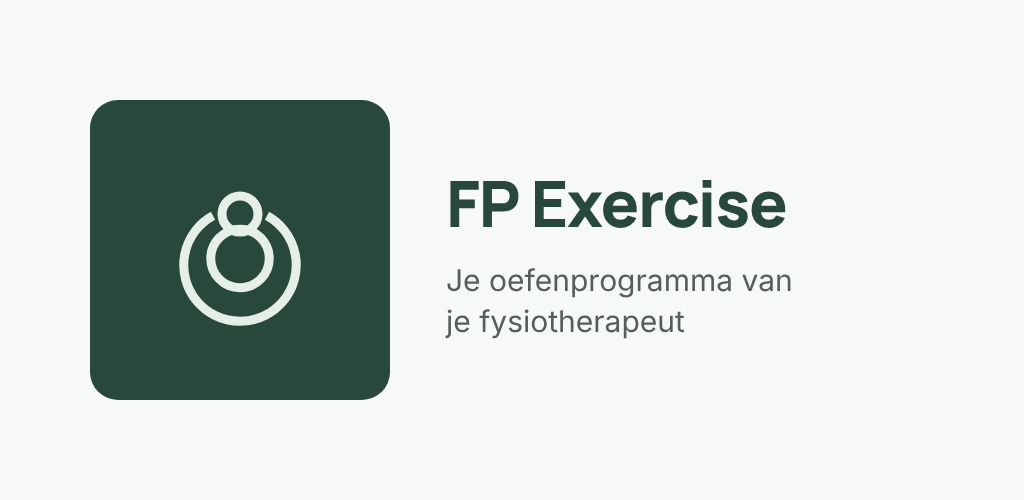
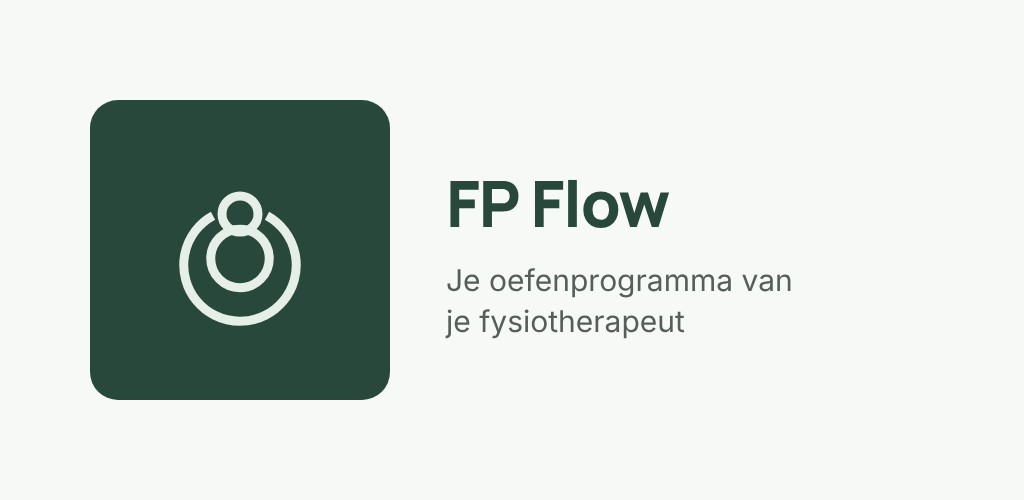
Rename the app to FP Flow
Visible name, page titles, manifest, store graphics, TOTP issuer and download
filenames. Technical identifiers (package names, domain, Android package id)
stay unchanged.

Claude-Session: https://claude.ai/code/session_01LX8STJNNDwUxbGDdeQr5p6

Changed region(s): [[0.5312, 0.36, 0.7812, 0.48]]

diff --git a/web/src/pages/marketing/MarketingPages.tsx b/web/src/pages/marketing/MarketingPages.tsx
@@ -31,7 +31,7 @@ export function FeaturesPage() {
   ];
   return (
     <>
-      <Hero eyebrow={t('Functies', 'Features')} title={t('Van voorschrijven tot bijsturen, in één rustige omgeving', 'From prescribing to adjusting, in one calm environment')} intro={t('FP Exercise ondersteunt de fysiotherapeut — het systeem stelt geen diagnoses en schrijft niets automatisch voor. Jij houdt de klinische regie.', 'FP Exercise supports the physiotherapist — it does not diagnose or prescribe automatically. You stay in clinical control.')} />
+      <Hero eyebrow={t('Functies', 'Features')} title={t('Van voorschrijven tot bijsturen, in één rustige omgeving', 'From prescribing to adjusting, in one calm environment')} intro={t('FP Flow ondersteunt de fysiotherapeut — het systeem stelt geen diagnoses en schrijft niets automatisch voor. Jij houdt de klinische regie.', 'FP Flow supports the physiotherapist — it does not diagnose or prescribe automatically. You stay in clinical control.')} />
       <section className="mx-auto max-w-6xl space-y-6 px-5 py-20">
         {blocks.map(([Icon, title, text, points]) => (
           <div key={title} className="grid gap-8 rounded-2xl border border-line p-8 shadow-card lg:grid-cols-2">
@@ -56,7 +56,7 @@ export function FeaturesPage() {
 
 export function HowItWorksPage() {
   const { t } = useI18n();
-  useDocumentMeta(t('Hoe het werkt', 'How it works'), t('Zo werkt FP Exercise voor fysiotherapeuten en patiënten.', 'How FP Exercise works for physiotherapists and patients.'));
+  useDocumentMeta(t('Hoe het werkt', 'How it works'), t('Zo werkt FP Flow voor fysiotherapeuten en patiënten.', 'How FP Flow works for physiotherapists and patients.'));
   const steps = (list: [typeof Search, string, string][]) => (
     <ol className="space-y-4">
       {list.map(([Icon, title, text], i) => (
@@ -95,7 +95,7 @@ export function HowItWorksPage() {
       </section>
       <section className="mx-auto max-w-6xl px-5 pb-20">
         <Notice tone="info" icon={<FileWarning className="h-4 w-4" />} title={t('Beoogd gebruik', 'Intended use')}>
-          {t('FP Exercise is een hulpmiddel voor het delen en registreren van door een zorgprofessional voorgeschreven oefeningen. De software stelt geen diagnoses, geeft geen geautomatiseerd behandeladvies en vervangt niet het oordeel van de fysiotherapeut.', 'FP Exercise is a tool to share and log exercises prescribed by a healthcare professional. The software does not diagnose, does not give automated treatment advice and does not replace the physiotherapist’s judgement.')}
+          {t('FP Flow is een hulpmiddel voor het delen en registreren van door een zorgprofessional voorgeschreven oefeningen. De software stelt geen diagnoses, geeft geen geautomatiseerd behandeladvies en vervangt niet het oordeel van de fysiotherapeut.', 'FP Flow is a tool to share and log exercises prescribed by a healthcare professional. The software does not diagnose, does not give automated treatment advice and does not replace the physiotherapist’s judgement.')}
         </Notice>
       </section>
     </>
@@ -151,7 +151,7 @@ export function PricingPage() {
 
 export function ContactPage() {
   const { t, locale } = useI18n();
-  useDocumentMeta(t('Contact', 'Contact'), t('Plan een demo of stel je vraag over FP Exercise.', 'Book a demo or ask a question about FP Exercise.'));
+  useDocumentMeta(t('Contact', 'Contact'), t('Plan een demo of stel je vraag over FP Flow.', 'Book a demo or ask a question about FP Flow.'));
   const [params] = useSearchParams();
   const [startedAt] = useState(() => Date.now());
   const [f, setF] = useState({ name: '', email: '', practice: '', message: '', topic: (params.get('onderwerp') as string) || 'demo', consent: false, website: '' });
@@ -235,9 +235,9 @@ export function PrivacyPage() {
   const { t } = useI18n();
   return (
     <LegalDraft title={t('Privacyverklaring', 'Privacy notice')}>
-      <p>{t('[Concept] Deze privacyverklaring beschrijft hoe FP Exercise persoonsgegevens verwerkt.', '[Draft] This privacy notice describes how FP Exercise processes personal data.')}</p>
+      <p>{t('[Concept] Deze privacyverklaring beschrijft hoe FP Flow persoonsgegevens verwerkt.', '[Draft] This privacy notice describes how FP Flow processes personal data.')}</p>
       <h2>{t('1. Rollen', '1. Roles')}</h2>
-      <p>{t('De fysiotherapiepraktijk is verwerkingsverantwoordelijke voor patiëntgegevens. FP Exercise treedt op als verwerker op basis van een verwerkersovereenkomst. Voor de website en het contactformulier is FP Exercise zelf verwerkingsverantwoordelijke. [In te vullen: rechtspersoon, KvK, contactgegevens, FG indien van toepassing].', 'The physiotherapy practice is the controller for patient data. FP Exercise acts as processor under a data processing agreement. For the website and contact form, FP Exercise is itself the controller. [To complete: legal entity, chamber of commerce, contact details, DPO if applicable].')}</p>
+      <p>{t('De fysiotherapiepraktijk is verwerkingsverantwoordelijke voor patiëntgegevens. FP Flow treedt op als verwerker op basis van een verwerkersovereenkomst. Voor de website en het contactformulier is FP Flow zelf verwerkingsverantwoordelijke. [In te vullen: rechtspersoon, KvK, contactgegevens, FG indien van toepassing].', 'The physiotherapy practice is the controller for patient data. FP Flow acts as processor under a data processing agreement. For the website and contact form, FP Flow is itself the controller. [To complete: legal entity, chamber of commerce, contact details, DPO if applicable].')}</p>
       <h2>{t('2. Welke gegevens', '2. Which data')}</h2>
       <ul>
         <li>{t('Account: naam, e-mailadres, taalvoorkeur.', 'Account: name, email address, language preference.')}</li>
@@ -263,7 +263,7 @@ export function TermsPage() {
       <p>{t('[Concept] Structuur voor de gebruiksvoorwaarden voor praktijken.', '[Draft] Structure of the terms of use for practices.')}</p>
       <h2>{t('1. Definities', '1. Definitions')}</h2><p>[…]</p>
       <h2>{t('2. Dienst en beoogd gebruik', '2. Service and intended use')}</h2>
-      <p>{t('FP Exercise is een hulpmiddel om door een zorgprofessional voorgeschreven oefeningen te delen en te registreren. De zorgprofessional blijft verantwoordelijk voor de klinische geschiktheid van elk programma, ook wanneer een sjabloon of bibliotheekoefening wordt gebruikt.', 'FP Exercise is a tool to share and log exercises prescribed by a healthcare professional. The professional remains responsible for the clinical appropriateness of every programme, including when using a template or library exercise.')}</p>
+      <p>{t('FP Flow is een hulpmiddel om door een zorgprofessional voorgeschreven oefeningen te delen en te registreren. De zorgprofessional blijft verantwoordelijk voor de klinische geschiktheid van elk programma, ook wanneer een sjabloon of bibliotheekoefening wordt gebruikt.', 'FP Flow is a tool to share and log exercises prescribed by a healthcare professional. The professional remains responsible for the clinical appropriateness of every programme, including when using a template or library exercise.')}</p>
       <h2>{t('3. Abonnement, proefperiode en betaling', '3. Subscription, trial and payment')}</h2><p>[…]</p>
       <h2>{t('4. Verwerking van persoonsgegevens', '4. Processing of personal data')}</h2><p>{t('Zie verwerkersovereenkomst. […]', 'See data processing agreement. […]')}</p>
       <h2>{t('5. Beschikbaarheid en ondersteuning', '5. Availability and support')}</h2><p>[…]</p>
@@ -277,7 +277,7 @@ export function CookiesPage() {
   const { t } = useI18n();
   return (
     <LegalDraft title={t('Cookieverklaring', 'Cookie notice')}>
-      <p>{t('[Concept] FP Exercise gebruikt alleen functionele cookies en lokale opslag die nodig zijn om de dienst te laten werken. Er worden geen tracking- of advertentiecookies geplaatst, en daarom tonen we geen cookiebanner.', '[Draft] FP Exercise only uses functional cookies and local storage needed to run the service. No tracking or advertising cookies are set, which is why we do not show a cookie banner.')}</p>
+      <p>{t('[Concept] FP Flow gebruikt alleen functionele cookies en lokale opslag die nodig zijn om de dienst te laten werken. Er worden geen tracking- of advertentiecookies geplaatst, en daarom tonen we geen cookiebanner.', '[Draft] FP Flow only uses functional cookies and local storage needed to run the service. No tracking or advertising cookies are set, which is why we do not show a cookie banner.')}</p>
       <h2>{t('Overzicht', 'Overview')}</h2>
       <TableScroll label={t('Overzicht cookies', 'Cookie overview')}>
         <table className="w-full text-[14px]">

diff --git a/web/index.html b/web/index.html
@@ -3,8 +3,8 @@
   <head>
     <meta charset="UTF-8" />
     <meta name="viewport" content="width=device-width, initial-scale=1, viewport-fit=cover" />
-    <title>FP Exercise — Oefentherapie op maat voor fysiotherapiepraktijken</title>
-    <meta name="description" content="FP Exercise helpt fysiotherapeuten oefenprogramma's samen te stellen, voor te schrijven en te volgen. Met een eenvoudige app voor patiënten." />
+    <title>FP Flow — Oefentherapie op maat voor fysiotherapiepraktijken</title>
+    <meta name="description" content="FP Flow helpt fysiotherapeuten oefenprogramma's samen te stellen, voor te schrijven en te volgen. Met een eenvoudige app voor patiënten." />
     <meta name="theme-color" content="#29483c" />
     <link rel="icon" href="/favicon.svg" type="image/svg+xml" />
     <link rel="manifest" href="/manifest.webmanifest" />
@@ -12,14 +12,14 @@
     <meta name="apple-mobile-web-app-capable" content="yes" />
     <meta name="mobile-web-app-capable" content="yes" />
     <meta name="apple-mobile-web-app-status-bar-style" content="default" />
-    <meta name="apple-mobile-web-app-title" content="FP Exercise" />
+    <meta name="apple-mobile-web-app-title" content="FP Flow" />
     <meta property="og:type" content="website" />
-    <meta property="og:title" content="FP Exercise" />
+    <meta property="og:title" content="FP Flow" />
     <meta property="og:description" content="Oefenprogramma's voorschrijven, volgen en bijsturen." />
   </head>
   <body>
     <div id="root"></div>
-    <noscript>FP Exercise vereist JavaScript.</noscript>
+    <noscript>FP Flow vereist JavaScript.</noscript>
     <script type="module" src="/src/main.tsx"></script>
   </body>
 </html>

diff --git a/server/src/auth/service.ts b/server/src/auth/service.ts
@@ -254,11 +254,11 @@ export async function inviteUser(opts: {
   const body =
     opts.kind === 'patient'
       ? nl
-        ? `Hallo ${opts.fullName},\n\n${opts.practiceName} heeft een oefenprogramma voor je klaargezet in FP Exercise.\nActiveer je account: ${inviteUrl}\n\nDeze link is 7 dagen geldig.`
-        : `Hello ${opts.fullName},\n\n${opts.practiceName} has prepared an exercise programme for you in FP Exercise.\nActivate your account: ${inviteUrl}\n\nThis link is valid for 7 days.`
+        ? `Hallo ${opts.fullName},\n\n${opts.practiceName} heeft een oefenprogramma voor je klaargezet in FP Flow.\nActiveer je account: ${inviteUrl}\n\nDeze link is 7 dagen geldig.`
+        : `Hello ${opts.fullName},\n\n${opts.practiceName} has prepared an exercise programme for you in FP Flow.\nActivate your account: ${inviteUrl}\n\nThis link is valid for 7 days.`
       : nl
-        ? `Hallo ${opts.fullName},\n\nJe bent uitgenodigd voor ${opts.practiceName} in FP Exercise.\nActiveer je account: ${inviteUrl}`
-        : `Hello ${opts.fullName},\n\nYou have been invited to ${opts.practiceName} in FP Exercise.\nActivate your account: ${inviteUrl}`;
+        ? `Hallo ${opts.fullName},\n\nJe bent uitgenodigd voor ${opts.practiceName} in FP Flow.\nActiveer je account: ${inviteUrl}`
+        : `Hello ${opts.fullName},\n\nYou have been invited to ${opts.practiceName} in FP Flow.\nActivate your account: ${inviteUrl}`;
   await sendMail(email, nl ? `Uitnodiging van ${opts.practiceName}` : `Invitation from ${opts.practiceName}`, body);
   return { userId, inviteUrl, existing };
 }

diff --git a/web/src/components/app/Brand.tsx b/web/src/components/app/Brand.tsx
@@ -5,7 +5,7 @@ import { Languages } from 'lucide-react';
 
 export function Logo({ className, to = '/', compact }: { className?: string; to?: string; compact?: boolean }) {
   return (
-    <Link to={to} className={cn('inline-flex items-center gap-2.5 text-ink-950', className)} aria-label={compact ? 'FP Exercise' : undefined}>
+    <Link to={to} className={cn('inline-flex items-center gap-2.5 text-ink-950', className)} aria-label={compact ? 'FP Flow' : undefined}>
       <svg viewBox="0 0 32 32" className="h-8 w-8 shrink-0 text-brand-forest" aria-hidden>
         {/* monogram after the Functional Performance brand mark */}
         <g fill="none" stroke="currentColor" strokeWidth="1.8">
@@ -16,7 +16,7 @@ export function Logo({ className, to = '/', compact }: { className?: string; to?
       </svg>
       {!compact && (
         <span className="flex flex-col whitespace-nowrap leading-none">
-          <span className="font-display text-[16px] font-extrabold uppercase tracking-[0.12em] text-brand-forest">FP Exercise</span>
+          <span className="font-display text-[16px] font-extrabold uppercase tracking-[0.12em] text-brand-forest">FP Flow</span>
           <span className="mt-1 text-[9.5px] font-medium uppercase tracking-[0.24em] text-ink-500">Functional Performance</span>
         </span>
       )}

diff --git a/web/src/components/app/Mfa.tsx b/web/src/components/app/Mfa.tsx
@@ -38,7 +38,7 @@ export function RecoveryCodes({ codes, onDone }: { codes: string[]; onDone: () =
   const { t } = useI18n();
   const [saved, setSaved] = useState(false);
   const [copied, setCopied] = useState(false);
-  const text = `FP Exercise — ${t('herstelcodes', 'recovery codes')}\n${t('Elke code werkt één keer.', 'Each code works once.')}\n\n${codes.join('\n')}\n`;
+  const text = `FP Flow — ${t('herstelcodes', 'recovery codes')}\n${t('Elke code werkt één keer.', 'Each code works once.')}\n\n${codes.join('\n')}\n`;
   return (
     <div className="space-y-4">
       <Notice tone="warn" title={t('Bewaar deze herstelcodes', 'Save these recovery codes')}>
@@ -57,7 +57,7 @@ export function RecoveryCodes({ codes, onDone }: { codes: string[]; onDone: () =
         <Button type="button" size="sm" variant="secondary" icon={<Download className="h-4 w-4" />} onClick={() => {
           const a = document.createElement('a');
           a.href = URL.createObjectURL(new Blob([text], { type: 'text/plain' }));
-          a.download = 'fp-exercise-herstelcodes.txt';
+          a.download = 'fp-flow-herstelcodes.txt';
           a.click();
           URL.revokeObjectURL(a.href);
         }}>{t('Downloaden', 'Download')}</Button>

diff --git a/server/src/auth/push.ts b/server/src/auth/push.ts
@@ -74,12 +74,12 @@ export async function unsubscribe(userId: string, endpoint: string) {
 }
 
 const MESSAGES = {
-  nl: { title: 'FP Exercise', body: 'Je oefeningen voor vandaag staan klaar. Succes! 💪' },
-  en: { title: 'FP Exercise', body: 'Your exercises for today are ready. Good luck! 💪' },
+  nl: { title: 'FP Flow', body: 'Je oefeningen voor vandaag staan klaar. Succes! 💪' },
+  en: { title: 'FP Flow', body: 'Your exercises for today are ready. Good luck! 💪' },
 };
 const TEST = {
-  nl: { title: 'FP Exercise', body: 'Zo ziet je herinnering eruit. Je ontvangt hem alleen op dagen met oefeningen.' },
-  en: { title: 'FP Exercise', body: 'This is what your reminder looks like. You only get it on exercise days.' },
+  nl: { title: 'FP Flow', body: 'Zo ziet je herinnering eruit. Je ontvangt hem alleen op dagen met oefeningen.' },
+  en: { title: 'FP Flow', body: 'This is what your reminder looks like. You only get it on exercise days.' },
 };
 
 /** Sends to every device of the user; removes subscriptions the push service reports as gone. */

diff --git a/web/src/pages/marketing/HomePage.tsx b/web/src/pages/marketing/HomePage.tsx
@@ -9,7 +9,7 @@ import { ProductShot } from './ProductShot';
 export function HomePage() {
   const { t } = useI18n();
   useDocumentMeta(
-    t('FP Exercise — Oefentherapie op maat voor fysiotherapiepraktijken', 'FP Exercise — Tailored exercise therapy for physiotherapy practices'),
+    t('FP Flow — Oefentherapie op maat voor fysiotherapiepraktijken', 'FP Flow — Tailored exercise therapy for physiotherapy practices'),
     t('Stel in een paar minuten een oefenprogramma samen, deel het via een eenvoudige patiëntapp en volg therapietrouw en feedback.', 'Build an exercise programme in minutes, share it through a simple patient app and follow adherence and feedback.'),
   );
   useEffect(() => {
@@ -18,7 +18,7 @@ export function HomePage() {
     s.text = JSON.stringify({
       '@context': 'https://schema.org',
       '@type': 'SoftwareApplication',
-      name: 'FP Exercise',
+      name: 'FP Flow',
       applicationCategory: 'HealthApplication',
       operatingSystem: 'Web, iOS, Android (PWA)',
       inLanguage: ['nl', 'en'],

diff --git a/web/src/pages/marketing/ProductShot.tsx b/web/src/pages/marketing/ProductShot.tsx
@@ -35,7 +35,7 @@ export function ProductShot({ className }: { className?: string }) {
       <div className="overflow-hidden rounded-2xl border border-line bg-white shadow-[0_30px_80px_-20px_rgba(45,40,25,.22)]">
         <div className="flex items-center gap-1.5 border-b border-line bg-ink-50 px-4 py-2.5">
           <span className="h-2.5 w-2.5 rounded-full bg-ink-200" /><span className="h-2.5 w-2.5 rounded-full bg-ink-200" /><span className="h-2.5 w-2.5 rounded-full bg-ink-200" />
-          <span className="ml-3 rounded-md bg-white px-3 py-0.5 text-[11px] text-ink-500">app.fp-exercise.nl/programmas/nieuw</span>
+          <span className="ml-3 rounded-md bg-white px-3 py-0.5 text-[11px] text-ink-500">app.fpflow.nl/programmas/nieuw</span>
         </div>
         <div className="grid grid-cols-[200px_1fr] text-left sm:grid-cols-[240px_1fr]">
           <div className="border-r border-line bg-sage/60 p-3">

diff --git a/web/src/pages/therapist/ProgressReportPage.tsx b/web/src/pages/therapist/ProgressReportPage.tsx
@@ -168,8 +168,8 @@ export function ProgressReportPage() {
 
         <footer className="mt-8 border-t border-line pt-3 text-[12px] text-ink-500">
           {t(
-            `Gegenereerd op ${d(new Date().toISOString())} uit FP Exercise. Scores zijn door de patiënt zelf gemeld; indicatief, geen klinische meting.`,
-            `Generated on ${d(new Date().toISOString())} from FP Exercise. Scores are self-reported by the patient; indicative, not a clinical measurement.`,
+            `Gegenereerd op ${d(new Date().toISOString())} uit FP Flow. Scores zijn door de patiënt zelf gemeld; indicatief, geen klinische meting.`,
+            `Generated on ${d(new Date().toISOString())} from FP Flow. Scores are self-reported by the patient; indicative, not a clinical measurement.`,
           )}
         </footer>
       </div>

diff --git a/web/src/layouts/MarketingLayout.tsx b/web/src/layouts/MarketingLayout.tsx
@@ -80,8 +80,8 @@ export function MarketingLayout() {
         </div>
         <div className="border-t border-line">
           <div className="mx-auto flex max-w-6xl flex-col gap-2 px-5 py-5 text-[12.5px] text-ink-500 sm:flex-row sm:justify-between">
-            <span>© {new Date().getFullYear()} FP Exercise</span>
-            <span>{t('FP Exercise is een hulpmiddel voor zorgprofessionals en stelt geen diagnoses.', 'FP Exercise is a tool for healthcare professionals and does not make diagnoses.')}</span>
+            <span>© {new Date().getFullYear()} FP Flow</span>
+            <span>{t('FP Flow is een hulpmiddel voor zorgprofessionals en stelt geen diagnoses.', 'FP Flow is a tool for healthcare professionals and does not make diagnoses.')}</span>
           </div>
         </div>
       </footer>

diff --git a/web/src/components/app/Feedback.tsx b/web/src/components/app/Feedback.tsx
@@ -48,7 +48,7 @@ export function FeedbackButton({ big }: { big?: boolean }) {
         onClose={close}
         size="sm"
         title={t('Wat vind je ervan?', 'What do you think?')}
-        description={t('Je bericht gaat naar het FP Exercise-team. Elke opmerking helpt!', 'Your message goes to the FP Exercise team. Every remark helps!')}
+        description={t('Je bericht gaat naar het FP Flow-team. Elke opmerking helpt!', 'Your message goes to the FP Flow team. Every remark helps!')}
         footer={
           <>
             <Button variant="ghost" onClick={close}>{t('Annuleren', 'Cancel')}</Button>

diff --git a/web/src/pages/therapist/PatientsPage.tsx b/web/src/pages/therapist/PatientsPage.tsx
@@ -186,7 +186,7 @@ export function PatientFormDialog({ open, onClose, patient }: { open: boolean; o
           </label>
         )}
         <p className="text-[12.5px] text-ink-500">
-          {t('Geen geboortedatum, BSN of diagnose invullen: FP Exercise is geen EPD.', 'Do not enter date of birth, national ID or diagnosis: FP Exercise is not an EHR.')}
+          {t('Geen geboortedatum, BSN of diagnose invullen: FP Flow is geen EPD.', 'Do not enter date of birth, national ID or diagnosis: FP Flow is not an EHR.')}
         </p>
       </form>
     </Dialog>
